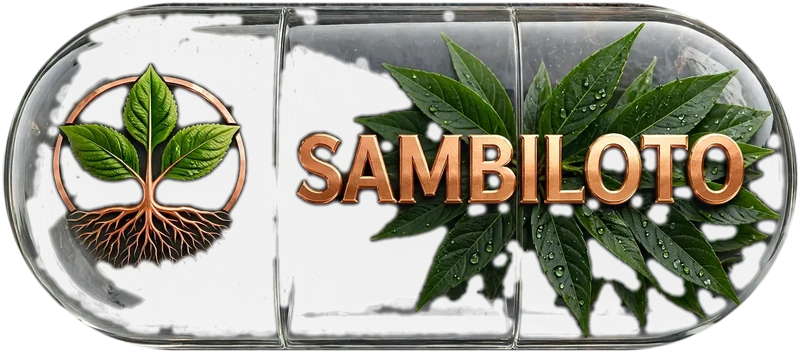
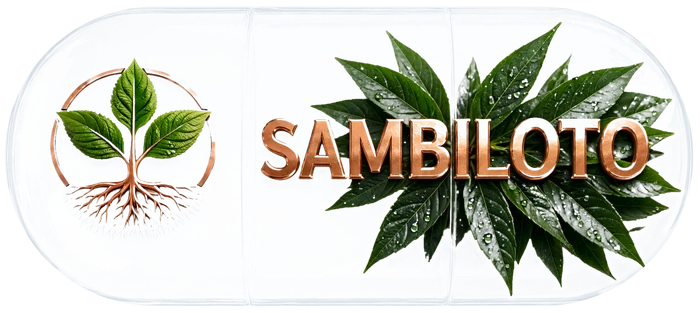
Tongkat Ali page with transparent capsule

diff --git a/menthol.html b/menthol.html
@@ -10,15 +10,15 @@
 <link rel="apple-touch-icon" href="/apple-touch-icon.png">
 <meta name="theme-color" content="#050403">
 <meta property="og:locale" content="en_ZA">
-<meta property="og:image" content="https://rootsource.one/og-image.jpg">
+<meta property="og:image" content="https://rootsource.one/menthol-og.jpg">
 <meta property="og:image:width" content="1200">
 <meta property="og:image:height" content="630">
 <meta property="og:image:alt" content="Root Source Menthol Crystals: menthol crystals and mint leaves on dark volcanic rock">
 <meta name="twitter:card" content="summary_large_image">
 <meta name="twitter:title" content="Menthol Crystals fact sheet | Root Source">
 <meta name="twitter:description" content="Fact sheet and frequently asked questions for Root Source Menthol Crystals: what they are, how to dilute them safely for skin use, steam aroma, who should be careful, and storage.">
-<meta name="twitter:image" content="https://rootsource.one/og-image.jpg">
-<script type="application/ld+json">{"@context":"https://schema.org","@type":"Product","name":"Menthol Crystals","description":"Menthol crystals, purity 99.5% minimum by GC, supplied in 50g and 100g.","image":"https://rootsource.one/og-image.jpg","brand":{"@type":"Brand","name":"Root Source"},"url":"https://rootsource.one/menthol.html","offers":{"@type":"AggregateOffer","priceCurrency":"ZAR","lowPrice":129,"highPrice":229,"offerCount":2,"seller":{"@id":"https://rootsource.one/#org"}}}</script>
+<meta name="twitter:image" content="https://rootsource.one/menthol-og.jpg">
+<script type="application/ld+json">{"@context":"https://schema.org","@type":"Product","name":"Menthol Crystals","description":"Menthol crystals, purity 99.5% minimum by GC, supplied in 50g and 100g.","image":"https://rootsource.one/menthol-og.jpg","brand":{"@type":"Brand","name":"Root Source"},"url":"https://rootsource.one/menthol.html","offers":{"@type":"AggregateOffer","priceCurrency":"ZAR","lowPrice":129,"highPrice":229,"offerCount":2,"seller":{"@id":"https://rootsource.one/#org"}}}</script>
 <meta property="og:type" content="article">
 <meta property="og:site_name" content="Root Source">
 <meta property="og:title" content="Menthol Crystals fact sheet | Root Source">
@@ -30,7 +30,8 @@
 <link rel="preconnect" href="https://fonts.googleapis.com">
 <link rel="preconnect" href="https://fonts.gstatic.com" crossorigin>
 <link href="https://fonts.googleapis.com/css2?family=Cinzel:wght@400;500;600&family=Cormorant+Garamond:ital,wght@0,400;0,500;0,600;1,400&display=swap" rel="stylesheet">
-<link rel="stylesheet" href="/sheet.css?v=3">
+<link rel="stylesheet" href="/sheet.css?v=6">
+<link rel="preload" as="image" href="/menthol-art.webp?v=6" type="image/webp">
 <script>document.documentElement.className="js"</script>
 </head>
 <body>
@@ -39,14 +40,15 @@
 <a class="tb-back" href="/#products">&larr; All products</a></header>
 <main>
 <section class="hero2">
-<figure class="himg"><div class="ph big"><img class="emb" src="/logo-emblem.webp" width="360" height="360" alt=""><span class="phn">Menthol Crystals</span></div></figure>
+<div class="shell"><span class="spec" aria-hidden="true"></span><span class="seam s1" aria-hidden="true"></span><span class="seam s2" aria-hidden="true"></span>
+<figure class="himg"><img src="/menthol-art.webp?v=6" width="900" height="415" alt="Root Source Menthol Crystals: menthol crystals and mint leaves on dark volcanic rock" fetchpriority="high"></figure>
 <div class="tblock">
 <p class="eyebrow">Fact sheet</p>
 <h1>Menthol Crystals</h1>
 <p class="sub">Pure menthol &middot; for external use and inhalation only</p>
 <p class="lead">A cooling, minty crystal, and clear, careful guidance on how to use it safely. Menthol is very strong, so the instructions below matter.</p>
 <div class="cta"><a class="btn go" href="checkout.html?add=menthol&size=0&qty=1">Order Menthol Crystals</a> <a class="btn ghost" href="https://wa.me/27687344919?text=Hi%20Root%20Source" target="_blank" rel="noopener">Ask a question on WhatsApp</a></div>
-</div>
+</div></div>
 <div class="chips"><div class="chip"><span>Ingredient</span><b>Menthol (CAS 89-78-1)</b></div><div class="chip"><span>Purity</span><b>99.5% minimum by GC, as stated on the product sheet</b></div><div class="chip"><span>Appearance</span><b>White to colourless crystals with a strong minty smell</b></div><div class="chip"><span>Melting point</span><b>41 to 44&deg;C</b></div><div class="chip"><span>Pack and shelf life</span><b>Amber glass jar<br>24 months</b></div><div class="chip"><span>Sizes</span><b>50g (R129)<br>100g (R229)</b></div></div>
 </section>
 <nav class="chnav" aria-label="On this page"><a href="#story">Story</a><a href="#how">How to use it</a><a href="#care">Take care</a><a href="#proof">Proof</a><a href="#faq">Questions</a><a href="#order">Order</a></nav>
@@ -101,10 +103,10 @@
 </div>
 </section>
 <section class="orderband rv" id="order">
-<div class="ph mid"><img class="emb" src="/logo-emblem.webp" width="360" height="360" alt=""><span class="phn">Menthol Crystals</span></div>
+<img src="/menthol-card.webp?v=6" loading="lazy" width="700" height="314" alt="">
 <div><h2>Order Menthol Crystals</h2><p>Choose your size and quantity on our order page. We confirm availability and send our payment details before anything is paid. For questions, you can also message us on WhatsApp.</p><div class="cta"><a class="btn go" href="checkout.html?add=menthol&size=0&qty=1">Order Menthol Crystals</a> <a class="btn ghost" href="https://wa.me/27687344919?text=Hi%20Root%20Source" target="_blank" rel="noopener">Ask a question on WhatsApp</a></div></div>
 </section>
-<section class="range rv"><h2>Explore the range</h2><div class="rgrid"><a class="rcard" href="/tongkat-ali.html"><img loading="lazy" src="/tongkat-ali-card.webp?v=2" width="800" height="353" alt="Root Source Tongkat Ali (Pasak Bumi): sliced and whole roots inside a glass capsule on dark volcanic rock"><span class="rname">Tongkat Ali <small>(Pasak Bumi)</small></span><span class="rgo">Read the fact sheet &rarr;</span></a><a class="rcard" href="/purwoceng.html"><img loading="lazy" src="/purwoceng-card.webp" width="800" height="353" alt="Root Source Purwoceng: Purwoceng roots inside a glass capsule on dark volcanic rock"><span class="rname">Purwoceng</span><span class="rgo">Read the fact sheet &rarr;</span></a><a class="rcard" href="/sambiloto.html"><img loading="lazy" src="/sambiloto-card.webp?v=2" width="800" height="353" alt="Root Source Sambiloto: green Sambiloto leaves inside a glass capsule on dark volcanic rock"><span class="rname">Sambiloto</span><span class="rgo">Read the fact sheet &rarr;</span></a></div></section>
+<section class="range rv"><h2>Explore the range</h2><div class="rgrid"><a class="rcard" href="/tongkat-ali.html"><img loading="lazy" src="/tongkat-ali-card.webp?v=6" width="700" height="314" alt="Root Source Tongkat Ali (Pasak Bumi): sliced and whole roots inside a glass capsule on dark volcanic rock"><span class="rname">Tongkat Ali <small>(Pasak Bumi)</small></span><span class="rgo">Read the fact sheet &rarr;</span></a><a class="rcard" href="/purwoceng.html"><img loading="lazy" src="/purwoceng-card.webp" width="700" height="314" alt="Root Source Purwoceng: Purwoceng roots inside a glass capsule on dark volcanic rock"><span class="rname">Purwoceng</span><span class="rgo">Read the fact sheet &rarr;</span></a><a class="rcard" href="/sambiloto.html"><img loading="lazy" src="/sambiloto-card.webp?v=6" width="700" height="314" alt="Root Source Sambiloto: green Sambiloto leaves inside a glass capsule on dark volcanic rock"><span class="rname">Sambiloto</span><span class="rgo">Read the fact sheet &rarr;</span></a></div></section>
 <section class="srcs"><details><summary>Sources</summary><ul><li><a href="https://www.royaldevon.nhs.uk/news/nhs-and-british-burn-association-issue-public-safety-warning-steam-inhalation-causes-burns/" target="_blank" rel="noopener">Royal Devon NHS: NHS and British Burn Association warning about steam inhalation, 2025</a></li><li><a href="https://cameo.mfa.org/wiki/Menthol" target="_blank" rel="noopener">Museum of Fine Arts Boston, CAMEO: Menthol (solubility and melting point)</a></li><li><a href="https://www.doctoroncall.com.my/pharmacy/menthol-crystal/" target="_blank" rel="noopener">Doctor on Call: Menthol crystal, safety information</a></li></ul></details></section>
 <p class="disc">Information on this page is for general information only. It is not medical advice, and our products are not intended to diagnose, treat, cure or prevent any disease. Last updated 3 November 2026. <a href="terms.html">Terms and Contact</a></p>
 </main>

diff --git a/sambiloto.html b/sambiloto.html
@@ -30,8 +30,8 @@
 <link rel="preconnect" href="https://fonts.googleapis.com">
 <link rel="preconnect" href="https://fonts.gstatic.com" crossorigin>
 <link href="https://fonts.googleapis.com/css2?family=Cinzel:wght@400;500;600&family=Cormorant+Garamond:ital,wght@0,400;0,500;0,600;1,400&display=swap" rel="stylesheet">
-<link rel="stylesheet" href="/sheet.css?v=3">
-<link rel="preload" as="image" href="/sambiloto-hero.webp?v=2" type="image/webp">
+<link rel="stylesheet" href="/sheet.css?v=6">
+<link rel="preload" as="image" href="/sambiloto-art.webp?v=6" type="image/webp">
 <script>document.documentElement.className="js"</script>
 </head>
 <body>
@@ -40,14 +40,15 @@
 <a class="tb-back" href="/#products">&larr; All products</a></header>
 <main>
 <section class="hero2">
-<figure class="himg"><img src="/sambiloto-hero.webp?v=2" width="1400" height="618" alt="Root Source Sambiloto: green Sambiloto leaves inside a glass capsule on dark volcanic rock" fetchpriority="high"></figure>
+<div class="shell"><span class="spec" aria-hidden="true"></span><span class="seam s1" aria-hidden="true"></span><span class="seam s2" aria-hidden="true"></span>
+<figure class="himg"><img src="/sambiloto-art.webp?v=6" width="900" height="415" alt="Root Source Sambiloto: green Sambiloto leaves inside a glass capsule on dark volcanic rock" fetchpriority="high"></figure>
 <div class="tblock">
 <p class="eyebrow">Fact sheet</p>
 <h1>Sambiloto</h1>
 <p class="sub"><i>Andrographis paniculata</i> &middot; King of Bitters</p>
 <p class="lead">An intensely bitter herb with a long tradition across India and Southeast Asia, and honest answers to the questions people ask.</p>
 <div class="cta"><a class="btn go" href="checkout.html?add=sambiloto&size=0&qty=1">Order Sambiloto</a> <a class="btn ghost" href="https://wa.me/27687344919?text=Hi%20Root%20Source" target="_blank" rel="noopener">Ask a question on WhatsApp</a></div>
-</div>
+</div></div>
 <div class="chips"><div class="chip"><span>Botanical name</span><b><i>Andrographis paniculata</i><br>Family: Acanthaceae</b></div><div class="chip"><span>Part used</span><b>The herb (leaves and stems)</b></div><div class="chip"><span>Also known as</span><b>Sambiloto (Indonesia), King of Bitters, Kalmegh, Green chiretta</b></div><div class="chip"><span>Our capsule</span><b>500mg, 3:1 dry water extract</b></div><div class="chip"><span>Sizes</span><b>40 capsules (R249)<br>80 capsules (R449)</b></div></div>
 </section>
 <nav class="chnav" aria-label="On this page"><a href="#story">Story</a><a href="#how">How to take it</a><a href="#care">Take care</a><a href="#proof">Proof</a><a href="#faq">Questions</a><a href="#order">Order</a></nav>
@@ -102,10 +103,10 @@
 </div>
 </section>
 <section class="orderband rv" id="order">
-<img src="/sambiloto-card.webp?v=2" loading="lazy" width="800" height="353" alt="">
+<img src="/sambiloto-card.webp?v=6" loading="lazy" width="700" height="314" alt="">
 <div><h2>Order Sambiloto</h2><p>Choose your size and quantity on our order page. We confirm availability and send our payment details before anything is paid. For questions, you can also message us on WhatsApp.</p><div class="cta"><a class="btn go" href="checkout.html?add=sambiloto&size=0&qty=1">Order Sambiloto</a> <a class="btn ghost" href="https://wa.me/27687344919?text=Hi%20Root%20Source" target="_blank" rel="noopener">Ask a question on WhatsApp</a></div></div>
 </section>
-<section class="range rv"><h2>Explore the range</h2><div class="rgrid"><a class="rcard" href="/tongkat-ali.html"><img loading="lazy" src="/tongkat-ali-card.webp?v=2" width="800" height="353" alt="Root Source Tongkat Ali (Pasak Bumi): sliced and whole roots inside a glass capsule on dark volcanic rock"><span class="rname">Tongkat Ali <small>(Pasak Bumi)</small></span><span class="rgo">Read the fact sheet &rarr;</span></a><a class="rcard" href="/purwoceng.html"><img loading="lazy" src="/purwoceng-card.webp" width="800" height="353" alt="Root Source Purwoceng: Purwoceng roots inside a glass capsule on dark volcanic rock"><span class="rname">Purwoceng</span><span class="rgo">Read the fact sheet &rarr;</span></a><a class="rcard" href="/menthol.html"><img loading="lazy" src="/menthol-card.webp" width="800" height="353" alt="Root Source Menthol Crystals: menthol crystals and mint leaves on dark volcanic rock"><span class="rname">Menthol Crystals</span><span class="rgo">Read the fact sheet &rarr;</span></a></div></section>
+<section class="range rv"><h2>Explore the range</h2><div class="rgrid"><a class="rcard" href="/tongkat-ali.html"><img loading="lazy" src="/tongkat-ali-card.webp?v=6" width="700" height="314" alt="Root Source Tongkat Ali (Pasak Bumi): sliced and whole roots inside a glass capsule on dark volcanic rock"><span class="rname">Tongkat Ali <small>(Pasak Bumi)</small></span><span class="rgo">Read the fact sheet &rarr;</span></a><a class="rcard" href="/purwoceng.html"><img loading="lazy" src="/purwoceng-card.webp" width="700" height="314" alt="Root Source Purwoceng: Purwoceng roots inside a glass capsule on dark volcanic rock"><span class="rname">Purwoceng</span><span class="rgo">Read the fact sheet &rarr;</span></a><a class="rcard" href="/menthol.html"><img loading="lazy" src="/menthol-card.webp?v=6" width="700" height="314" alt="Root Source Menthol Crystals: menthol crystals and mint leaves on dark volcanic rock"><span class="rname">Menthol Crystals</span><span class="rgo">Read the fact sheet &rarr;</span></a></div></section>
 <section class="srcs"><details><summary>Sources</summary><ul><li><a href="https://www.webmd.com/vitamins-supplements/andrographis" target="_blank" rel="noopener">WebMD: Andrographis, side effects and who should not use it</a></li><li><a href="https://drugs.com/npp/andrographis.html" target="_blank" rel="noopener">Drugs.com: Andrographis, pregnancy and interactions</a></li><li><a href="https://www.nparks.gov.sg/florafaunaweb/flora/1/6/1665" target="_blank" rel="noopener">Singapore National Parks Board: <i>Andrographis paniculata</i></a></li><li><a href="https://www.nst.com.my/amp/news/2015/09/37600/bitter-medicinal" target="_blank" rel="noopener">New Straits Times: the king of bitters (names and plant description)</a></li></ul></details></section>
 <p class="disc">Information on this page describes traditional use and is for general information only. It is not medical advice, and our products are not intended to diagnose, treat, cure or prevent any disease. Last updated 3 November 2026. <a href="terms.html">Terms and Contact</a></p>
 </main>

diff --git a/sheet.css b/sheet.css
@@ -10,10 +10,10 @@ a{color:var(--cop)}img{max-width:100%;height:auto;display:block}
 .tb-back{font-family:var(--disp);font-size:12px;letter-spacing:.12em;text-decoration:none;text-transform:uppercase}
 main{max-width:1060px;margin:0 auto;padding:0 18px 90px}
 .hero2{position:relative;padding-top:26px}
-.himg{margin:0;width:100%;padding:10px 0 0}
-.himg img{width:100%;height:auto;filter:drop-shadow(0 0 18px rgba(236,189,142,.75)) drop-shadow(0 0 55px rgba(236,189,142,.45)) drop-shadow(0 22px 30px rgba(0,0,0,.7));animation:flt 7s ease-in-out infinite}
+.himg{margin:0 auto;width:100%;max-width:640px;padding:18px 18px 0}
+.himg img{width:100%;height:auto;filter:drop-shadow(0 0 10px rgba(236,189,142,.65)) drop-shadow(0 0 34px rgba(236,189,142,.35));animation:flt 7s ease-in-out infinite}
 @keyframes flt{0%,100%{transform:translateY(0)}50%{transform:translateY(-8px)}}
-.tblock{text-align:center;max-width:780px;margin:-10px auto 0;position:relative;padding:34px 26px 10px;border-radius:18px;background:linear-gradient(180deg,rgba(14,10,6,.9),rgba(8,6,4,.94));border:1px solid var(--line);box-shadow:0 14px 50px rgba(0,0,0,.6)}
+.tblock{text-align:center;max-width:780px;margin:4px auto 0;position:relative;padding:34px 26px 10px;border-radius:18px;background:linear-gradient(180deg,rgba(14,10,6,.9),rgba(8,6,4,.94));border:1px solid var(--line);box-shadow:0 14px 50px rgba(0,0,0,.6)}
 .eyebrow{font-family:var(--disp);letter-spacing:.35em;text-transform:uppercase;font-size:12px;color:var(--cop2);margin:0 0 8px}
 h1{font-family:var(--disp);font-weight:500;font-size:clamp(30px,6vw,52px);line-height:1.1;margin:0 0 6px;letter-spacing:.04em;background:linear-gradient(180deg,#fff2dc,#ecbd8e 60%,#c98a4f);-webkit-background-clip:text;background-clip:text;color:transparent;text-shadow:none;filter:drop-shadow(0 2px 8px rgba(0,0,0,.75))}
 .sub{font-style:italic;color:var(--muted);margin:0 0 14px;font-size:22px}
@@ -84,7 +84,41 @@ h1{font-family:var(--disp);font-weight:500;font-size:clamp(30px,6vw,52px);line-h
 @media(max-width:760px){.tblock{margin-top:0!important}body{font-size:18px}.ch{grid-template-columns:1fr;gap:6px;padding:38px 0}.chead{display:flex;align-items:baseline;gap:14px}.num{font-size:54px}.chead h2{font-size:18px}.orderband{grid-template-columns:1fr}.tblock{margin-top:-40px;padding:26px 16px 6px}.pull{font-size:23px}.faq{columns:1}.chnav{justify-content:flex-start}.obar .op{display:none}}
 @media(prefers-reduced-motion:reduce){*{animation:none!important;transition:none!important}.js .rv{opacity:1;transform:none}html{scroll-behavior:auto}}
 .ph{position:relative;display:grid;place-items:center;text-align:center;aspect-ratio:1400/618;border-radius:22px;background:radial-gradient(ellipse at 50% 45%,rgba(236,189,142,.16),rgba(0,0,0,0) 65%)}
-.ph .emb{width:36%;max-width:300px;filter:drop-shadow(0 0 18px rgba(236,189,142,.75)) drop-shadow(0 0 55px rgba(236,189,142,.45));animation:flt 7s ease-in-out infinite}
+.ph .emb{width:36%;max-width:240px;filter:drop-shadow(0 0 18px rgba(236,189,142,.75)) drop-shadow(0 0 55px rgba(236,189,142,.45));animation:flt 7s ease-in-out infinite}
 .ph .phn{position:absolute;bottom:8%;left:0;right:0;font-family:var(--disp);letter-spacing:.2em;text-transform:uppercase;font-size:clamp(18px,4vw,40px);background:linear-gradient(180deg,#fff2dc,#ecbd8e 60%,#c98a4f);-webkit-background-clip:text;background-clip:text;color:transparent;text-shadow:none}
 .ph.sm{aspect-ratio:16/9}.ph.sm .emb{width:34%}.ph.sm .phn{font-size:18px;bottom:6%}.ph.mid .emb{width:44%}
 .rcard .ph{border-radius:0}.orderband .ph{aspect-ratio:16/9}
+
+/* 3D glass capsule shell housing the hero */
+.shell{position:relative;margin:26px auto 0;max-width:900px;padding:34px 46px 30px;border-radius:150px;text-align:center;
+background:linear-gradient(165deg,rgba(255,255,255,.13) 0%,rgba(255,255,255,.04) 28%,rgba(120,150,175,.05) 60%,rgba(0,0,0,.22) 100%);
+border:1.5px solid rgba(255,255,255,.34);
+box-shadow:inset 0 3px 3px rgba(255,255,255,.55),inset 0 -22px 40px rgba(0,0,0,.5),inset 18px 0 34px rgba(255,255,255,.07),inset -18px 0 34px rgba(0,0,0,.28),0 0 46px rgba(236,189,142,.35),0 34px 50px rgba(0,0,0,.55);
+backdrop-filter:blur(1.5px)}
+.shell::before{content:"";position:absolute;inset:3px;border-radius:inherit;border:1px solid rgba(255,255,255,.14);pointer-events:none}
+.shell .spec{position:absolute;left:9%;right:42%;top:7px;height:20px;border-radius:50%;background:linear-gradient(90deg,rgba(255,255,255,0),rgba(255,255,255,.8) 35%,rgba(255,255,255,.35) 70%,rgba(255,255,255,0));filter:blur(2px);pointer-events:none}
+.shell .seam{position:absolute;top:14px;bottom:14px;width:2px;background:linear-gradient(180deg,rgba(255,255,255,.05),rgba(255,255,255,.4),rgba(255,255,255,.05));box-shadow:2px 0 6px rgba(0,0,0,.35);pointer-events:none}
+.shell .s1{left:33%}.shell .s2{left:66%}
+.shell .himg{max-width:600px;padding:0;margin:0 auto}
+.shell .himg img{animation:none;filter:drop-shadow(0 6px 10px rgba(0,0,0,.55))}
+.shell .tblock{background:none;border:0;box-shadow:none;margin:4px auto 0;padding:6px 0 4px;max-width:640px}
+.shell .ph{aspect-ratio:16/7}
+@media(max-width:760px){.shell{border-radius:70px;padding:30px 20px 24px}.shell .seam{display:none}.shell .spec{left:14%;right:30%}}
+
+/* capsule proportions: art left, text right */
+.shell{max-width:1060px;display:grid;grid-template-columns:1.1fr 1fr;align-items:center;gap:6px;padding:40px 78px 40px 70px;border-radius:999px;text-align:left}
+.shell .himg{max-width:none;width:100%;margin:0}
+.shell .tblock{text-align:center;max-width:none;padding:0 0 0 18px;margin:0}
+.shell .tblock h1{font-size:clamp(28px,4.2vw,44px)}
+.shell .tblock .lead{font-size:19px;margin-bottom:12px}
+.shell .tblock .sub{font-size:20px;margin-bottom:10px}
+.shell .cta{justify-content:center}
+.shell .cta .btn{padding:11px 20px;font-size:12px}
+.shell .s1{left:50.5%}.shell .s2{display:none}
+.shell .spec{left:12%;right:48%}
+@media(max-width:900px){.shell{grid-template-columns:1fr;padding:34px 22px 28px;border-radius:80px;gap:8px}.shell .tblock{padding:0}.shell .seam{display:none}.shell .spec{left:14%;right:28%}}
+
+@media(min-width:901px){.shell{grid-template-columns:1.3fr 1fr}.shell .s1{left:56.5%}}
+@media(max-width:900px){.shell{grid-template-columns:1fr!important}.shell .himg{max-width:420px;margin:0 auto}}
+
+.himg{max-width:660px!important}.himg img{animation:flt 7s ease-in-out infinite}

diff --git a/purwoceng.html b/purwoceng.html
@@ -30,7 +30,7 @@
 <link rel="preconnect" href="https://fonts.googleapis.com">
 <link rel="preconnect" href="https://fonts.gstatic.com" crossorigin>
 <link href="https://fonts.googleapis.com/css2?family=Cinzel:wght@400;500;600&family=Cormorant+Garamond:ital,wght@0,400;0,500;0,600;1,400&display=swap" rel="stylesheet">
-<link rel="stylesheet" href="/sheet.css?v=3">
+<link rel="stylesheet" href="/sheet.css?v=6">
 <script>document.documentElement.className="js"</script>
 </head>
 <body>
@@ -39,6 +39,7 @@
 <a class="tb-back" href="/#products">&larr; All products</a></header>
 <main>
 <section class="hero2">
+<div class="shell"><span class="spec" aria-hidden="true"></span><span class="seam s1" aria-hidden="true"></span><span class="seam s2" aria-hidden="true"></span>
 <figure class="himg"><div class="ph big"><img class="emb" src="/logo-emblem.webp" width="360" height="360" alt=""><span class="phn">Purwoceng</span></div></figure>
 <div class="tblock">
 <p class="eyebrow">Fact sheet</p>
@@ -46,7 +47,7 @@
 <p class="sub"><i>Pimpinella pruatjan</i> Molk. &middot; Pruatjan</p>
 <p class="lead">A rare highland plant of Java, a root with a long tradition, and honest answers to the questions people ask.</p>
 <div class="cta"><a class="btn go" href="checkout.html?add=purwoceng&size=0&qty=1">Order Purwoceng</a> <a class="btn ghost" href="https://wa.me/27687344919?text=Hi%20Root%20Source%2C%20I%20have%20a%20question." target="_blank" rel="noopener">Ask a question on WhatsApp</a></div>
-</div>
+</div></div>
 <div class="chips"><div class="chip"><span>Botanical name</span><b><i>Pimpinella pruatjan</i> Molk. (also written <i>Pimpinella alpina</i>)<br>Family: Apiaceae</b></div><div class="chip"><span>Part used</span><b>The root</b></div><div class="chip"><span>Also known as</span><b>Purwoceng, Pruatjan</b></div><div class="chip"><span>Our capsule</span><b>500mg, 10:1 dry water extract</b></div><div class="chip"><span>Sizes</span><b>40 capsules (R399)<br>80 capsules (R729)</b></div></div>
 </section>
 <nav class="chnav" aria-label="On this page"><a href="#story">Story</a><a href="#how">How to take it</a><a href="#care">Take care</a><a href="#proof">Proof</a><a href="#faq">Questions</a><a href="#order">Order</a></nav>
@@ -105,7 +106,7 @@
 <div class="ph mid"><img class="emb" src="/logo-emblem.webp" width="360" height="360" alt=""><span class="phn">Purwoceng</span></div>
 <div><h2>Order Purwoceng</h2><p>Choose your size and quantity on our order page. We confirm availability and send our payment details before anything is paid. For questions, you can also message us on WhatsApp.</p><div class="cta"><a class="btn go" href="checkout.html?add=purwoceng&size=0&qty=1">Order Purwoceng</a> <a class="btn ghost" href="https://wa.me/27687344919?text=Hi%20Root%20Source%2C%20I%20have%20a%20question." target="_blank" rel="noopener">Ask a question on WhatsApp</a></div></div>
 </section>
-<section class="range rv"><h2>Explore the range</h2><div class="rgrid"><a class="rcard" href="/tongkat-ali.html"><img loading="lazy" src="/tongkat-ali-card.webp?v=2" width="800" height="353" alt="Root Source Tongkat Ali (Pasak Bumi): sliced and whole roots inside a glass capsule on dark volcanic rock"><span class="rname">Tongkat Ali <small>(Pasak Bumi)</small></span><span class="rgo">Read the fact sheet &rarr;</span></a><a class="rcard" href="/sambiloto.html"><img loading="lazy" src="/sambiloto-card.webp?v=2" width="800" height="353" alt="Root Source Sambiloto: green Sambiloto leaves inside a glass capsule on dark volcanic rock"><span class="rname">Sambiloto</span><span class="rgo">Read the fact sheet &rarr;</span></a><a class="rcard" href="/menthol.html"><img loading="lazy" src="/menthol-card.webp" width="800" height="353" alt="Root Source Menthol Crystals: menthol crystals and mint leaves on dark volcanic rock"><span class="rname">Menthol Crystals</span><span class="rgo">Read the fact sheet &rarr;</span></a></div></section>
+<section class="range rv"><h2>Explore the range</h2><div class="rgrid"><a class="rcard" href="/tongkat-ali.html"><img loading="lazy" src="/tongkat-ali-card.webp?v=6" width="700" height="314" alt="Root Source Tongkat Ali (Pasak Bumi): sliced and whole roots inside a glass capsule on dark volcanic rock"><span class="rname">Tongkat Ali <small>(Pasak Bumi)</small></span><span class="rgo">Read the fact sheet &rarr;</span></a><a class="rcard" href="/sambiloto.html"><img loading="lazy" src="/sambiloto-card.webp?v=6" width="700" height="314" alt="Root Source Sambiloto: green Sambiloto leaves inside a glass capsule on dark volcanic rock"><span class="rname">Sambiloto</span><span class="rgo">Read the fact sheet &rarr;</span></a><a class="rcard" href="/menthol.html"><img loading="lazy" src="/menthol-card.webp?v=6" width="700" height="314" alt="Root Source Menthol Crystals: menthol crystals and mint leaves on dark volcanic rock"><span class="rname">Menthol Crystals</span><span class="rgo">Read the fact sheet &rarr;</span></a></div></section>
 <section class="srcs"><details><summary>Sources</summary><ul><li><a href="https://doi.org/10.61186/IJT.17.3.60" target="_blank" rel="noopener">Chronic toxicity of purwoceng root extract in rat liver and kidneys, Iranian Journal of Toxicology, 2023</a></li><li><a href="https://doi.org/10.20884/1.jm.2021.16.2.729" target="_blank" rel="noopener">Hepatotoxic and nephrotoxic effects of purwoceng root ethanol extract at subchronic dose, Molekul, 2021</a></li><li><a href="http://repository.ipb.ac.id/handle/123456789/77729" target="_blank" rel="noopener">Reproductive cycle of rat offspring after purwoceng root extract in pregnancy, IPB University thesis, 2015</a></li><li><a href="https://www.goodnewsfromindonesia.id/indonesiana/alam-lingkungan/dijuluki-ginseng-jawa-tak-banyak-yang-tahu-kalau-tanaman-ini-perlahan-makin-langka" target="_blank" rel="noopener">Good News from Indonesia: purwoceng and its conservation status (in Indonesian)</a></li></ul></details></section>
 <p class="disc">Information on this page describes traditional use and is for general information only. It is not medical advice, and our products are not intended to diagnose, treat, cure or prevent any disease. Last updated 2 November 2026. <a href="terms.html">Terms and Contact</a></p>
 </main>

diff --git a/tongkat-ali.html b/tongkat-ali.html
@@ -30,8 +30,8 @@
 <link rel="preconnect" href="https://fonts.googleapis.com">
 <link rel="preconnect" href="https://fonts.gstatic.com" crossorigin>
 <link href="https://fonts.googleapis.com/css2?family=Cinzel:wght@400;500;600&family=Cormorant+Garamond:ital,wght@0,400;0,500;0,600;1,400&display=swap" rel="stylesheet">
-<link rel="stylesheet" href="/sheet.css?v=3">
-<link rel="preload" as="image" href="/tongkat-ali-hero.webp?v=2" type="image/webp">
+<link rel="stylesheet" href="/sheet.css?v=7">
+<link rel="preload" as="image" href="/tongkat-ali-hero.webp?v=8" type="image/webp">
 <script>document.documentElement.className="js"</script>
 </head>
 <body>
@@ -40,7 +40,7 @@
 <a class="tb-back" href="/#products">&larr; All products</a></header>
 <main>
 <section class="hero2">
-<figure class="himg"><img src="/tongkat-ali-hero.webp?v=2" width="1400" height="618" alt="Root Source Tongkat Ali (Pasak Bumi): sliced and whole roots inside a glass capsule on dark volcanic rock" fetchpriority="high"></figure>
+<figure class="himg"><img src="/tongkat-ali-hero.webp?v=8" width="1000" height="445" alt="Root Source Tongkat Ali (Pasak Bumi): sliced and whole roots inside a glass capsule on dark volcanic rock" fetchpriority="high"></figure>
 <div class="tblock">
 <p class="eyebrow">Fact sheet</p>
 <h1>Tongkat Ali</h1>
@@ -102,10 +102,10 @@
 </div>
 </section>
 <section class="orderband rv" id="order">
-<img src="/tongkat-ali-card.webp?v=2" loading="lazy" width="800" height="353" alt="">
+<img src="/tongkat-ali-card.webp?v=8" loading="lazy" width="700" height="314" alt="">
 <div><h2>Order Tongkat Ali</h2><p>Choose your size and quantity on our order page. We confirm availability and send our payment details before anything is paid. For questions, you can also message us on WhatsApp.</p><div class="cta"><a class="btn go" href="checkout.html?add=tongkat&size=0&qty=1">Order Tongkat Ali</a> <a class="btn ghost" href="https://wa.me/27687344919?text=Hi%20Root%20Source%2C%20I%20have%20a%20question." target="_blank" rel="noopener">Ask a question on WhatsApp</a></div></div>
 </section>
-<section class="range rv"><h2>Explore the range</h2><div class="rgrid"><a class="rcard" href="/purwoceng.html"><img loading="lazy" src="/purwoceng-card.webp" width="800" height="353" alt="Root Source Purwoceng: Purwoceng roots inside a glass capsule on dark volcanic rock"><span class="rname">Purwoceng</span><span class="rgo">Read the fact sheet &rarr;</span></a><a class="rcard" href="/sambiloto.html"><img loading="lazy" src="/sambiloto-card.webp?v=2" width="800" height="353" alt="Root Source Sambiloto: green Sambiloto leaves inside a glass capsule on dark volcanic rock"><span class="rname">Sambiloto</span><span class="rgo">Read the fact sheet &rarr;</span></a><a class="rcard" href="/menthol.html"><img loading="lazy" src="/menthol-card.webp" width="800" height="353" alt="Root Source Menthol Crystals: menthol crystals and mint leaves on dark volcanic rock"><span class="rname">Menthol Crystals</span><span class="rgo">Read the fact sheet &rarr;</span></a></div></section>
+<section class="range rv"><h2>Explore the range</h2><div class="rgrid"><a class="rcard" href="/purwoceng.html"><img loading="lazy" src="/purwoceng-card.webp?v=6" width="700" height="314" alt="Root Source Purwoceng: Purwoceng roots inside a glass capsule on dark volcanic rock"><span class="rname">Purwoceng</span><span class="rgo">Read the fact sheet &rarr;</span></a><a class="rcard" href="/sambiloto.html"><img loading="lazy" src="/sambiloto-card.webp?v=6" width="700" height="314" alt="Root Source Sambiloto: green Sambiloto leaves inside a glass capsule on dark volcanic rock"><span class="rname">Sambiloto</span><span class="rgo">Read the fact sheet &rarr;</span></a><a class="rcard" href="/menthol.html"><img loading="lazy" src="/menthol-card.webp?v=6" width="700" height="314" alt="Root Source Menthol Crystals: menthol crystals and mint leaves on dark volcanic rock"><span class="rname">Menthol Crystals</span><span class="rgo">Read the fact sheet &rarr;</span></a></div></section>
 <section class="srcs"><details><summary>Sources</summary><ul><li><a href="https://doi.org/10.2903/j.efsa.2021.6937" target="_blank" rel="noopener">European Food Safety Authority, scientific opinion on tongkat ali root extract as a novel food, EFSA Journal 2021</a></li><li><a href="https://www.ncbi.nlm.nih.gov/books/NBK609015/" target="_blank" rel="noopener">LiverTox (US National Institutes of Health): Tongkat Ali</a></li></ul></details></section>
 <p class="disc">Information on this page describes traditional use and is for general information only. It is not medical advice, and our products are not intended to diagnose, treat, cure or prevent any disease. Last updated 2 November 2026. <a href="terms.html">Terms and Contact</a></p>
 </main>
